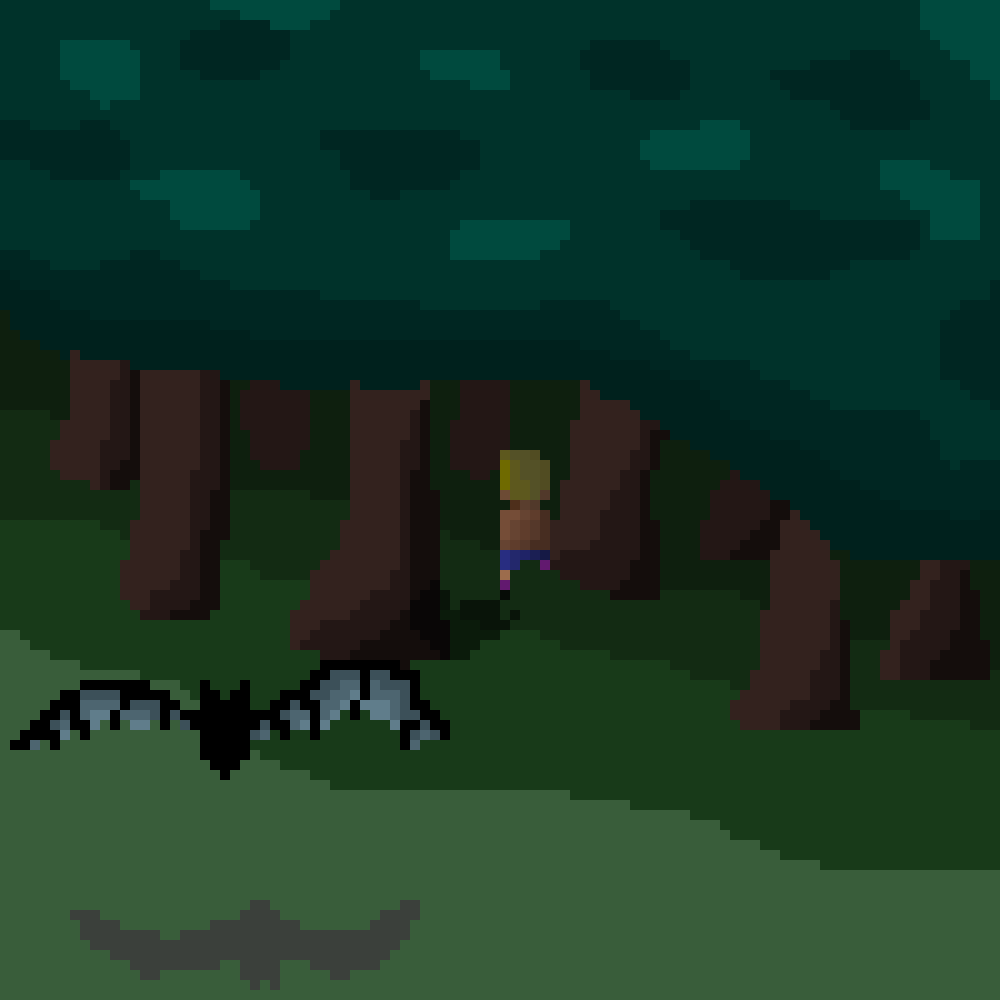
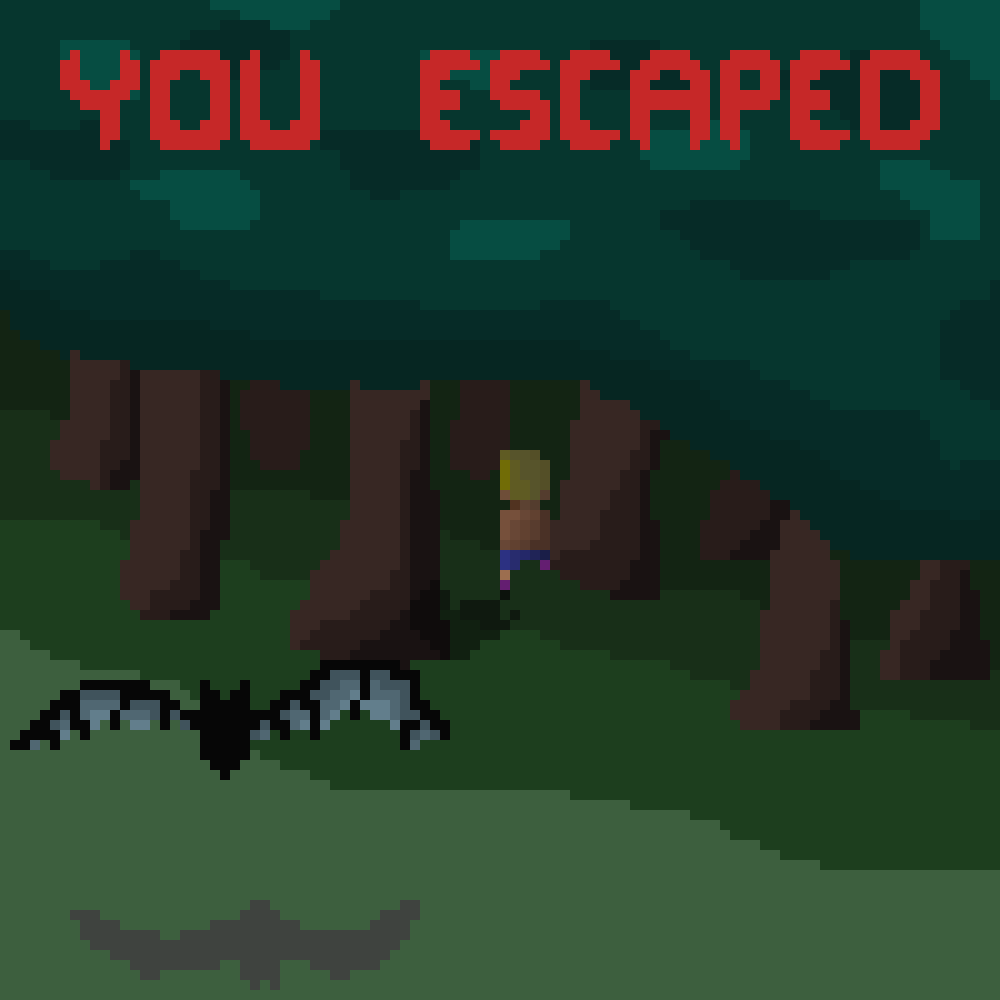
all

Changed region(s): [[0.403, 0.031, 0.961, 0.155], [0.062, 0.031, 0.341, 0.155]]

diff --git a/scripts.js b/scripts.js
@@ -20,6 +20,8 @@ var music = new Audio('./8-bit-space-123218.mp3');
 var fin = new Image()
 fin.src = "./fin.png"
 
+var dead = new Image()
+dead.src = "./dead.png"
 // def var
 
 let isPlaying = false
@@ -224,17 +226,38 @@ window.addEventListener("keydown", function(event) {
                 player.x + player.width < vampire.x ||
                 player.y > vampire.y + vampire.height ||
                 player.y + player.height < vampire.y){
+                    if (scoreNumber>400){
+                        isPlaying =false
+                        clearInterval(gameloop);
+                        c.getContext('2d').drawImage(fin, 0, 0, 1000, 1010);
+                        setTimeout(menuShow,5000) 
+                        music.pause();
+                        music.currentTime = 0;
+                        gameSpeed = 10
+                        baseSpeed = 10
+                        player = new Player
+                        vampire = new Vampire
+                        background = new Background(0)
+                        background1 = new Background(1000)
+                        score = new Score()
+                        scoreNumber = 0
+                        bloodArray = []
+                        rockArray = []
+                        energyArray = []
+                        bibleCounter = 0
+                        bibleArray = []
+                        effectCouter = 0
+                        playerPreviousPos = []
+                        gameFrame = 0
+                        randomEnergy= 270
+                        randomBible= 220
+                    }
             }else {
                 isPlaying =false
                 clearInterval(gameloop);
-                if (scoreNumber<400){
-                    menuShow(scoreNumber)
-                    music.pause();
-                    music.currentTime = 0;
-                }else {
-                    c.getContext('2d').drawImage(fin, 0, 0, 1000, 1010);
-                    setTimeout(menuShow,5000) 
-                }
+                c.getContext('2d').drawImage(dead, 0, 0, 1000, 1010);
+                setTimeout(menuShow,5000) 
+                //menuShow(scoreNumber)
                 gameSpeed = 10
                 baseSpeed = 10
                 player = new Player
